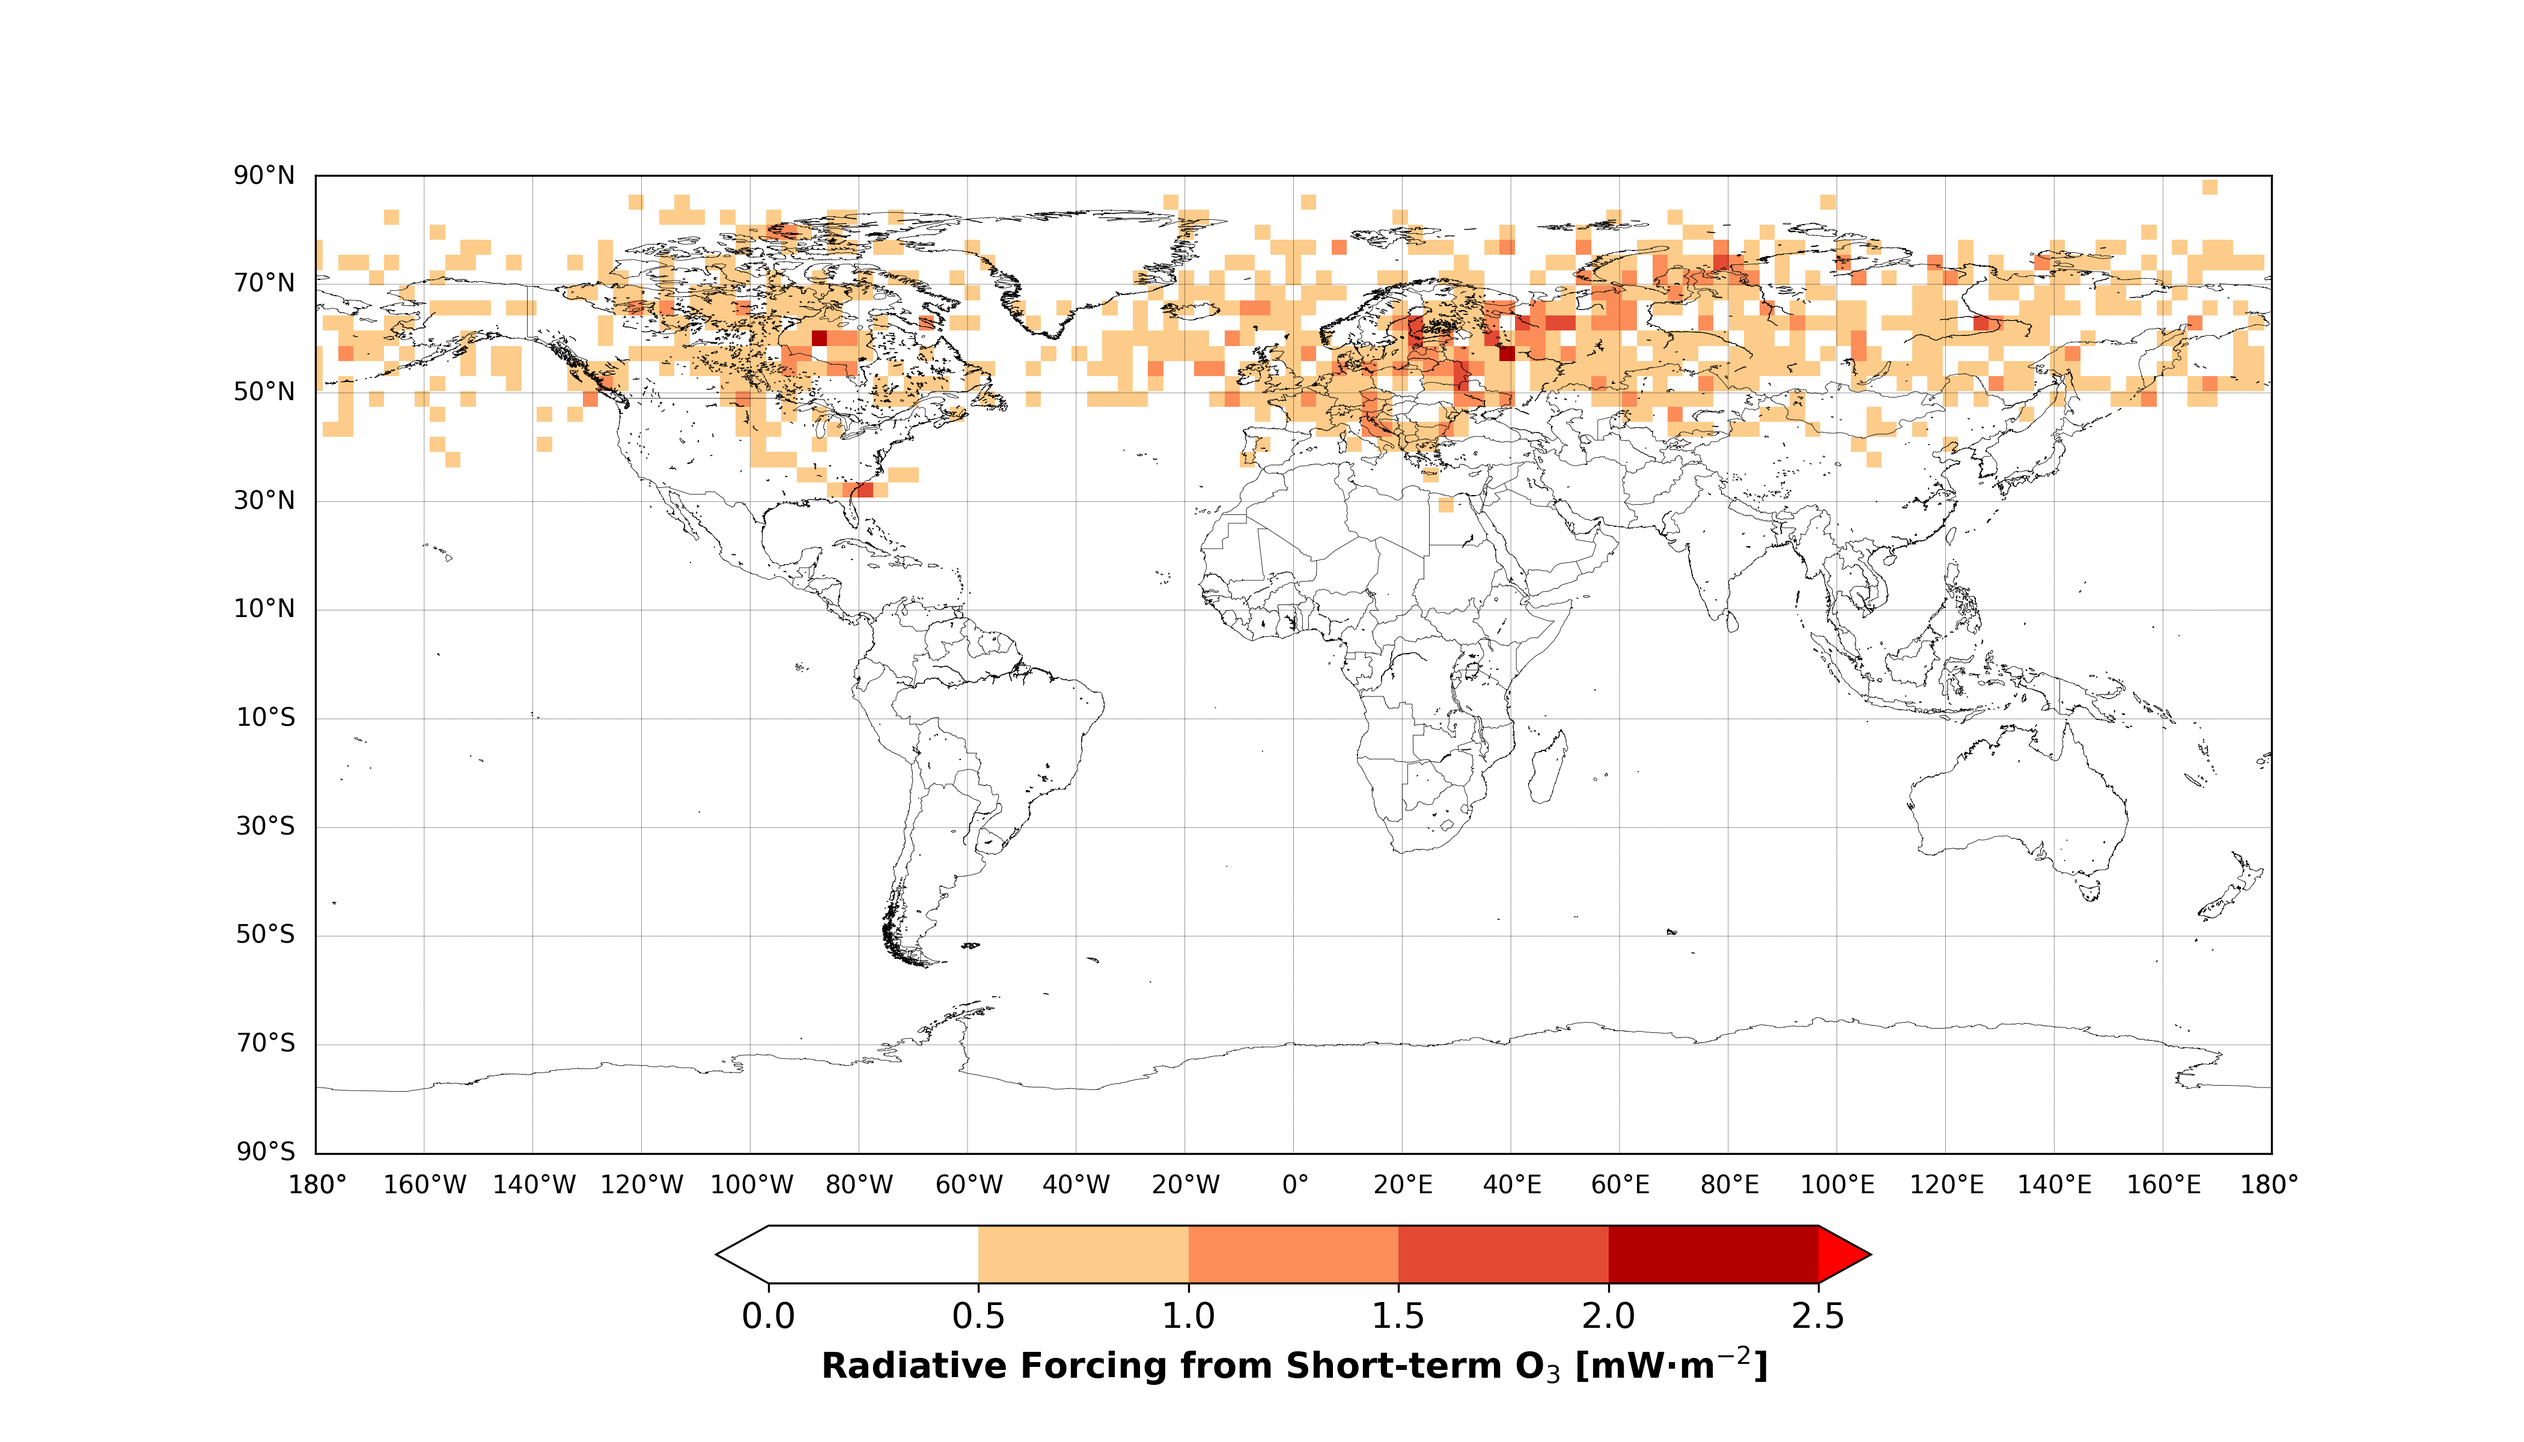
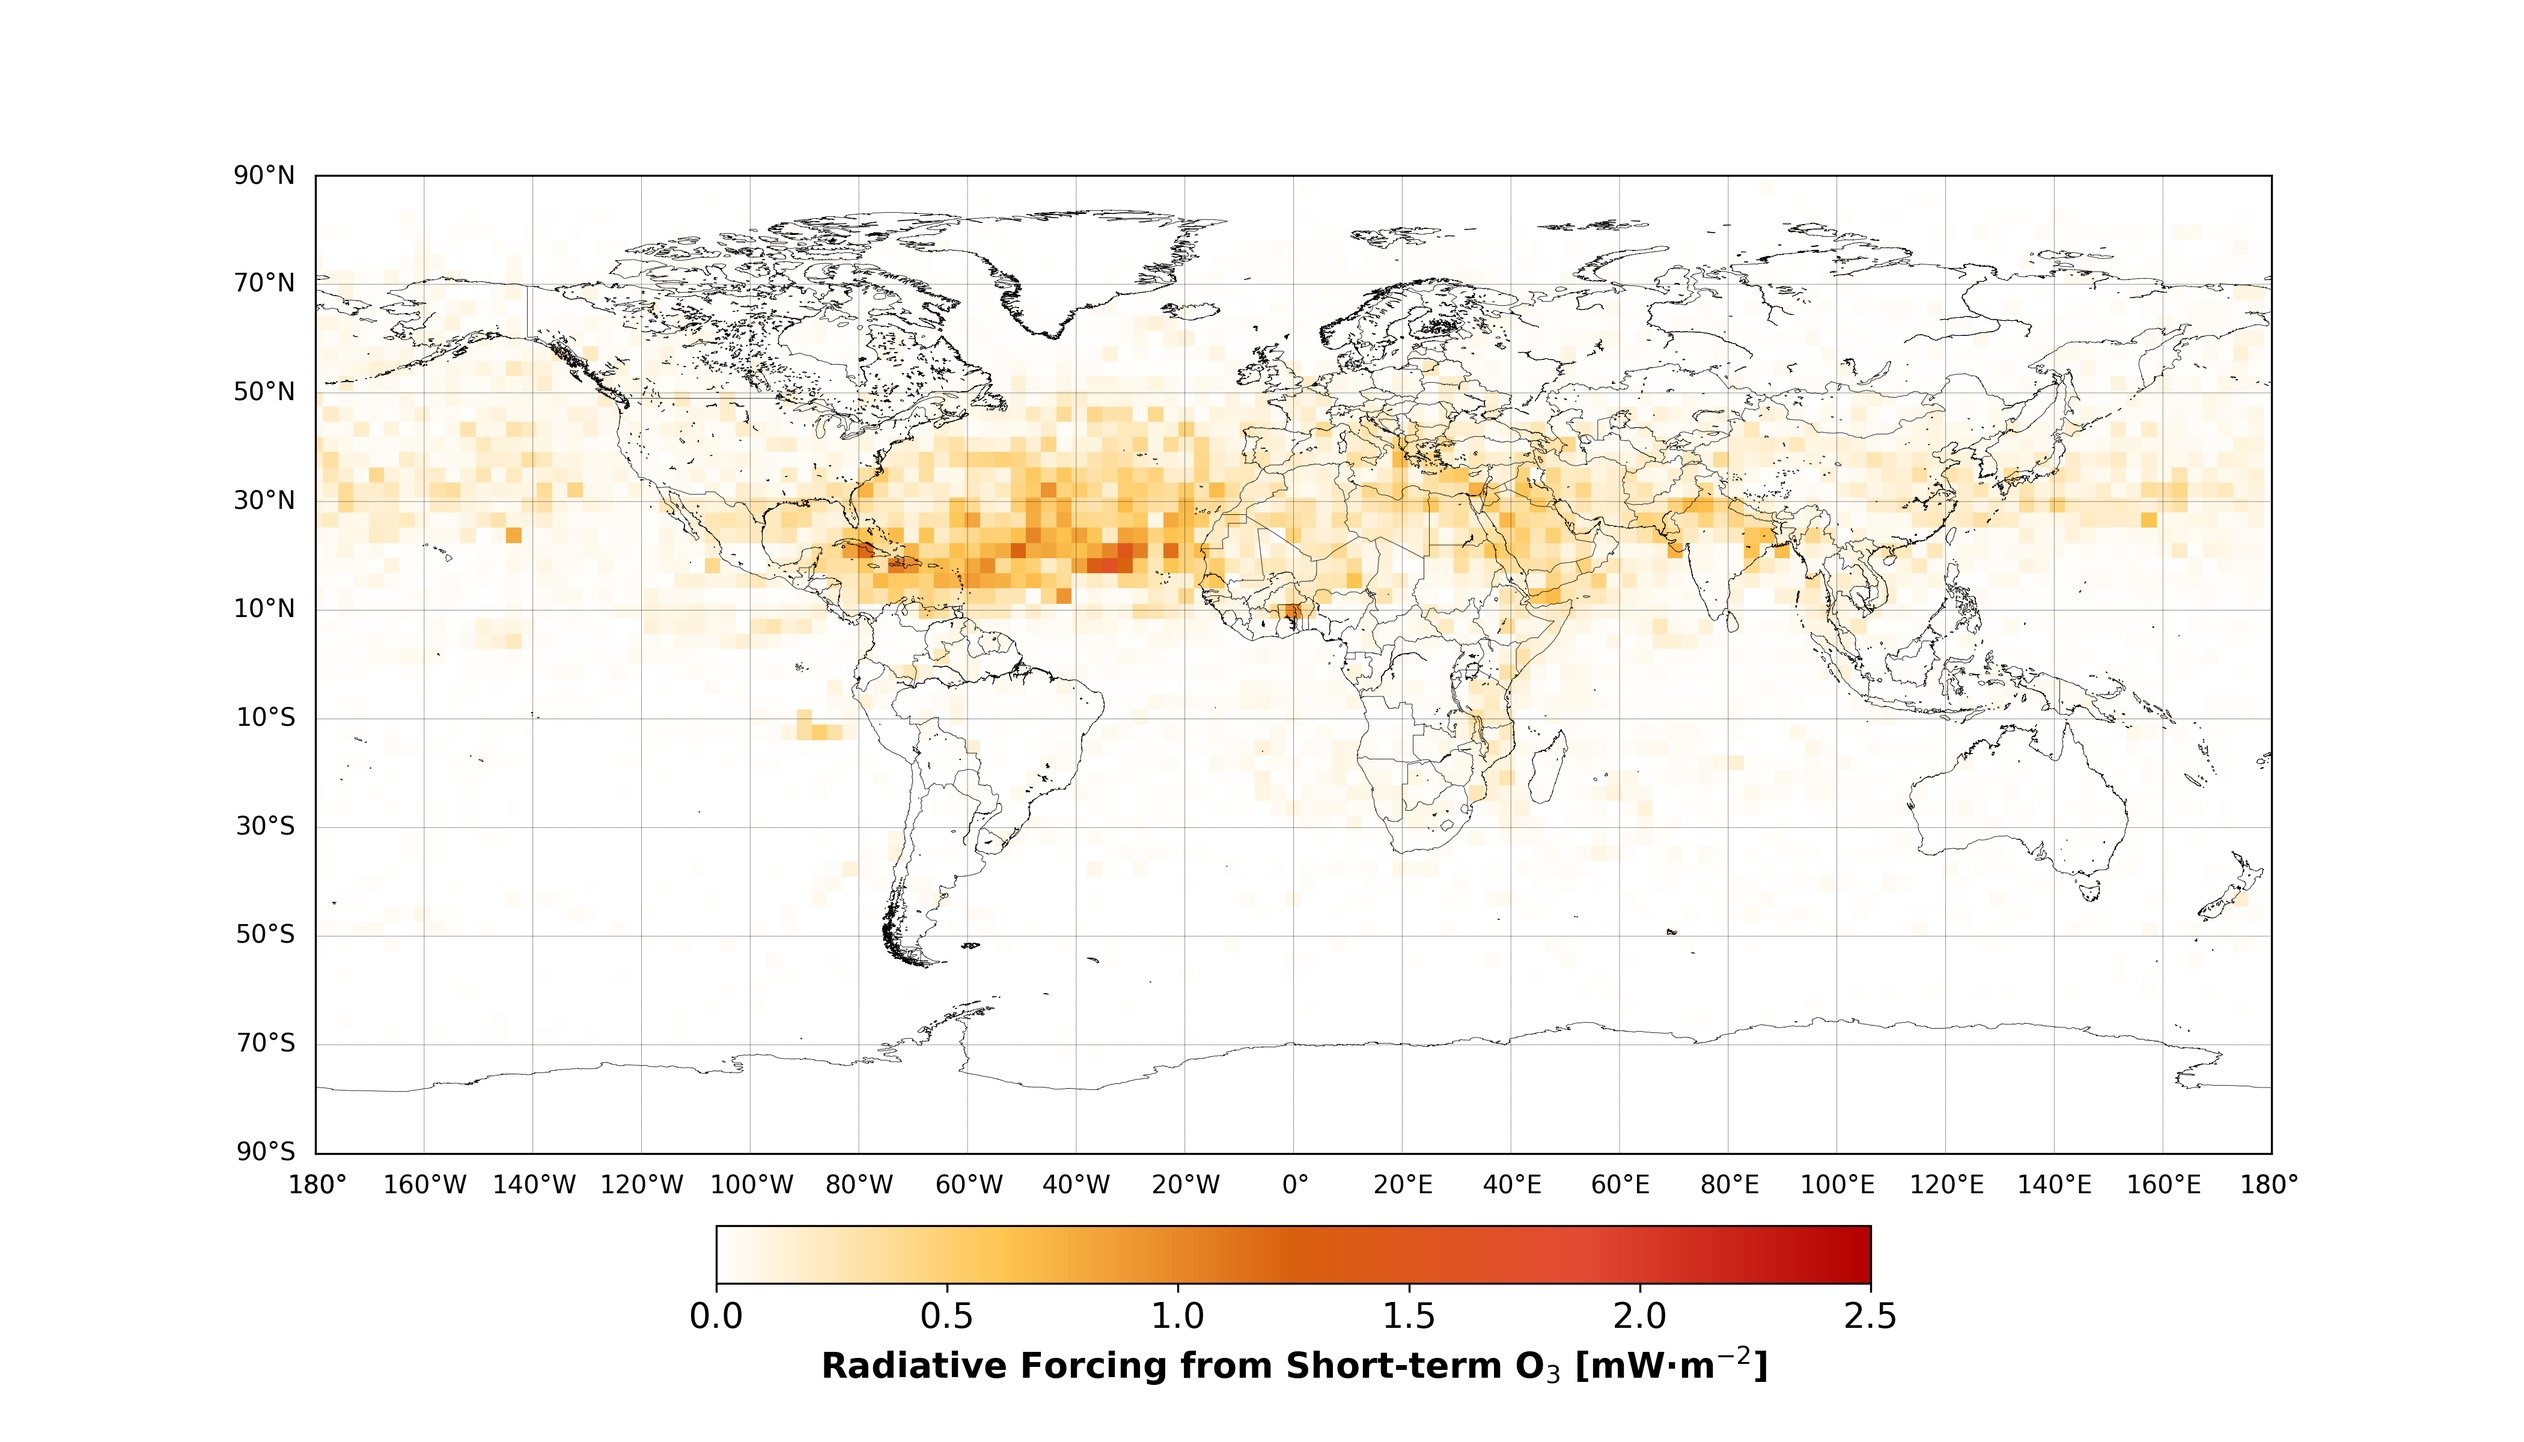
kjdjfg

diff --git a/Group1 -Seas_Alt_Transport/Group4_version_Final_Attempt.py b/Group1 -Seas_Alt_Transport/Group4_version_Final_Attempt.py
@@ -13,13 +13,13 @@ import matplotlib.colors #To create new colorbar
 
 #USER INPUT - File path
 #foldernamelist = ["C:/Users/31683/Desktop/project data/Summer200/*","C:/Users/31683/Desktop/project data/Summer250/*","C:/Users/31683/Desktop/project data/Summer300/*","C:/Users/31683/Desktop/project data/Winter200/*","C:/Users/31683/Desktop/project data/Winter250/*","C:/Users/31683/Desktop/project data/Winter300/*"]
-foldernamelist = ["C:/Users/joren/Documents/project data/Winter300/*","C:/Users/joren/Documents/project data/Summer/*"]
+foldernamelist = ["C:/Users/joren/Documents/project data/Summer250/*","C:/Users/joren/Documents/project data/Summer/*"]
 #Joren foldernamelist = ["C:/Users/joren/Documents/project data/Winter","C:/Users/joren/Documents/project data/Summer"]
 
 #USER INPUT - Switches to determine which data types should be loaded
 attila_switch = True
 o3tracer_switch = False
-rad_fluxes_switch = False
+rad_fluxes_switch = True
 
 graphs28 = False
 graphsperlat = False
@@ -372,7 +372,7 @@ for f_string in foldernamelist:
                 
         #Label the colorbar
         #graphtitle = 
-        cb.set_label(label="Heat map of all airparcels from the first emission point",size=14,weight='bold',loc='right')
+        #cb.set_label(label="Heat map of all airparcels from the first emission point",size=14,weight='bold',loc='right')
 
         plt.show()
         plt.close()
@@ -517,4 +517,134 @@ for f_string in foldernamelist:
 #28 graphsRF
 #####################################################################################################
     if graphs28RF == True:
-        print('hi')
+        '''
+        #Set up axis object for plotting the map
+        fig, ax = plt.subplots() #Subplots are useful for drawing multiple plots together
+        
+        #Adjust dimensions of map plot
+        fig.set_figheight(8)
+        fig.set_figwidth(14)
+        
+        #Define map projection and settings
+        #For more info: https://matplotlib.org/basemap/users/cyl.html
+        mp = Basemap(projection = 'cyl', #equidistant cylindrical projection
+                            llcrnrlon = -180,
+                            llcrnrlat = -90,
+                            urcrnrlon = 180,
+                            urcrnrlat = 90,
+                            resolution = 'i', ax=ax) #h=high, f=full, i=intermediate, c=crude
+        
+        #Shift the fluxes from [0,360] to [-180,180]
+        net_flx_EP_shft, lons_shft = shiftgrid(180.,global_net_flx[5], 
+                                            lons_0to36,start=False)
+        
+        #Format the lat and lon arrays for map graphing, 
+        #makes lat array a lat x lon array and same for lon array
+        lon, lat = np.meshgrid(lons_shft, lats)
+        x, y = mp(lon, lat)
+        
+        #Choose the settings for the coastlines, countries, meridians...
+        mp.drawcoastlines(linewidth=0.2)
+        mp.drawcountries(linewidth=0.2)
+        
+        meridians = mp.drawmeridians(np.arange(-180,200,20), 
+                            labels=[False,False,False,True], 
+                            linewidth=0.2, fontsize=10) #Draw lon lines every 20º
+        
+        mp.drawparallels(np.arange(-90,110,20), 
+                            labels=[True,False,False,True], 
+                            linewidth=0.2, fontsize=10) #Draw lat lines every 20º
+        
+        #Set up custom colorbar, colors may be chosen with the help from colorbrewer2.org
+        colors = ["#ffffff", "#fec44f", "#d95f0e", "#e34a33", "#b30000"]
+        bounds = [0, 0.5, 1, 1.5, 2, 2.5]
+        cmap= matplotlib.colors.LinearSegmentedColormap.from_list(bounds,colors)
+        
+        
+        cmap.set_under("w")
+        cmap.set_over("red")
+        
+        norm= matplotlib.colors.Normalize(vmin=0,vmax=2.5)
+        
+        #Time-average for the first emission point
+        time_avg_flux = np.mean(net_flx_EP_shft, axis=0)
+        
+        #Plot the flux on the map
+        sc2 = mp.pcolor(x, y, time_avg_flux*1000,
+                        cmap=cmap, norm=norm, shading='auto')
+        
+        #Define colorbar features
+        cb = fig.colorbar(sc2, #ticks=bounds, extend='both', 
+                        orientation='horizontal',fraction=0.052, 
+                        pad=0.065)
+        
+        #Adjust colorbar tickmark size
+        cb.ax.tick_params(labelsize=14)
+        
+        #Label the colorbar
+        cb.set_label(label="Radiative Forcing from Short-term O$_3$ [mW·m$^{-2}$]",size=14,weight='bold')
+        
+        #Save and close the map plot
+        plt.savefig("rad_fluxes_map_example.png",format="png",dpi=300)
+        plt.show()
+        plt.close()
+    '''
+        fig, axs = plt.subplots(nrows=7, ncols=4, figsize=(32, 32))
+        fig.tight_layout()
+        axs = axs.transpose()
+        EP = 0 
+        for i, ax in enumerate(axs.flat):
+            
+            #Define map projection and settings
+            #For more info: https://matplotlib.org/basemap/users/cyl.html
+            mp = Basemap(projection = 'cyl', #equidistant cylindrical projection
+                                llcrnrlon = -180,
+                                llcrnrlat = -90,
+                                urcrnrlon = 180,
+                                urcrnrlat = 90,
+                                resolution = 'i', ax=ax) #h=high, f=full, i=intermediate, c=crude
+            
+            #Shift the fluxes from [0,360] to [-180,180]
+            net_flx_EP_shft, lons_shft = shiftgrid(180.,global_net_flx[EP], 
+                                                lons_0to36,start=False)
+            
+            #Format the lat and lon arrays for map graphing, 
+            #makes lat array a lat x lon array and same for lon array
+            lon, lat = np.meshgrid(lons_shft, lats)
+            x, y = mp(lon, lat)
+            
+            #Choose the settings for the coastlines, countries, meridians...
+            mp.drawcoastlines(linewidth=0.2)
+            mp.drawcountries(linewidth=0.2)
+            
+            '''meridians = mp.drawmeridians(np.arange(-180,200,20), 
+                                labels=[False,False,False,True], 
+                                linewidth=0.2, fontsize=10) #Draw lon lines every 20º
+            
+            mp.drawparallels(np.arange(-90,110,20), 
+                                labels=[True,False,False,True], 
+                                linewidth=0.2, fontsize=10) #Draw lat lines every 20º
+            '''
+            #Set up custom colorbar, colors may be chosen with the help from colorbrewer2.org
+            colors = ["#ffffff", "#fec44f", "#d95f0e", "#e34a33", "#b30000"]
+            bounds = [0, 0.5, 1, 1.5, 2, 2.5]
+            cmap= matplotlib.colors.LinearSegmentedColormap.from_list(bounds,colors)
+            
+            
+            cmap.set_under("w")
+            cmap.set_over("red")
+            
+            norm= matplotlib.colors.Normalize(vmin=0,vmax=2.5)
+            
+            #Time-average for the first emission point
+            time_avg_flux = np.mean(net_flx_EP_shft, axis=0)
+            
+            #Plot the flux on the map
+            sc2 = mp.pcolor(x, y, time_avg_flux*1000,
+                            cmap=cmap, norm=norm, shading='auto')
+            ax.set_ylabel(f'E. P. {EP +1}', loc='top')
+            EP += 1
+            
+            
+        plt.show()
+        plt.close()
